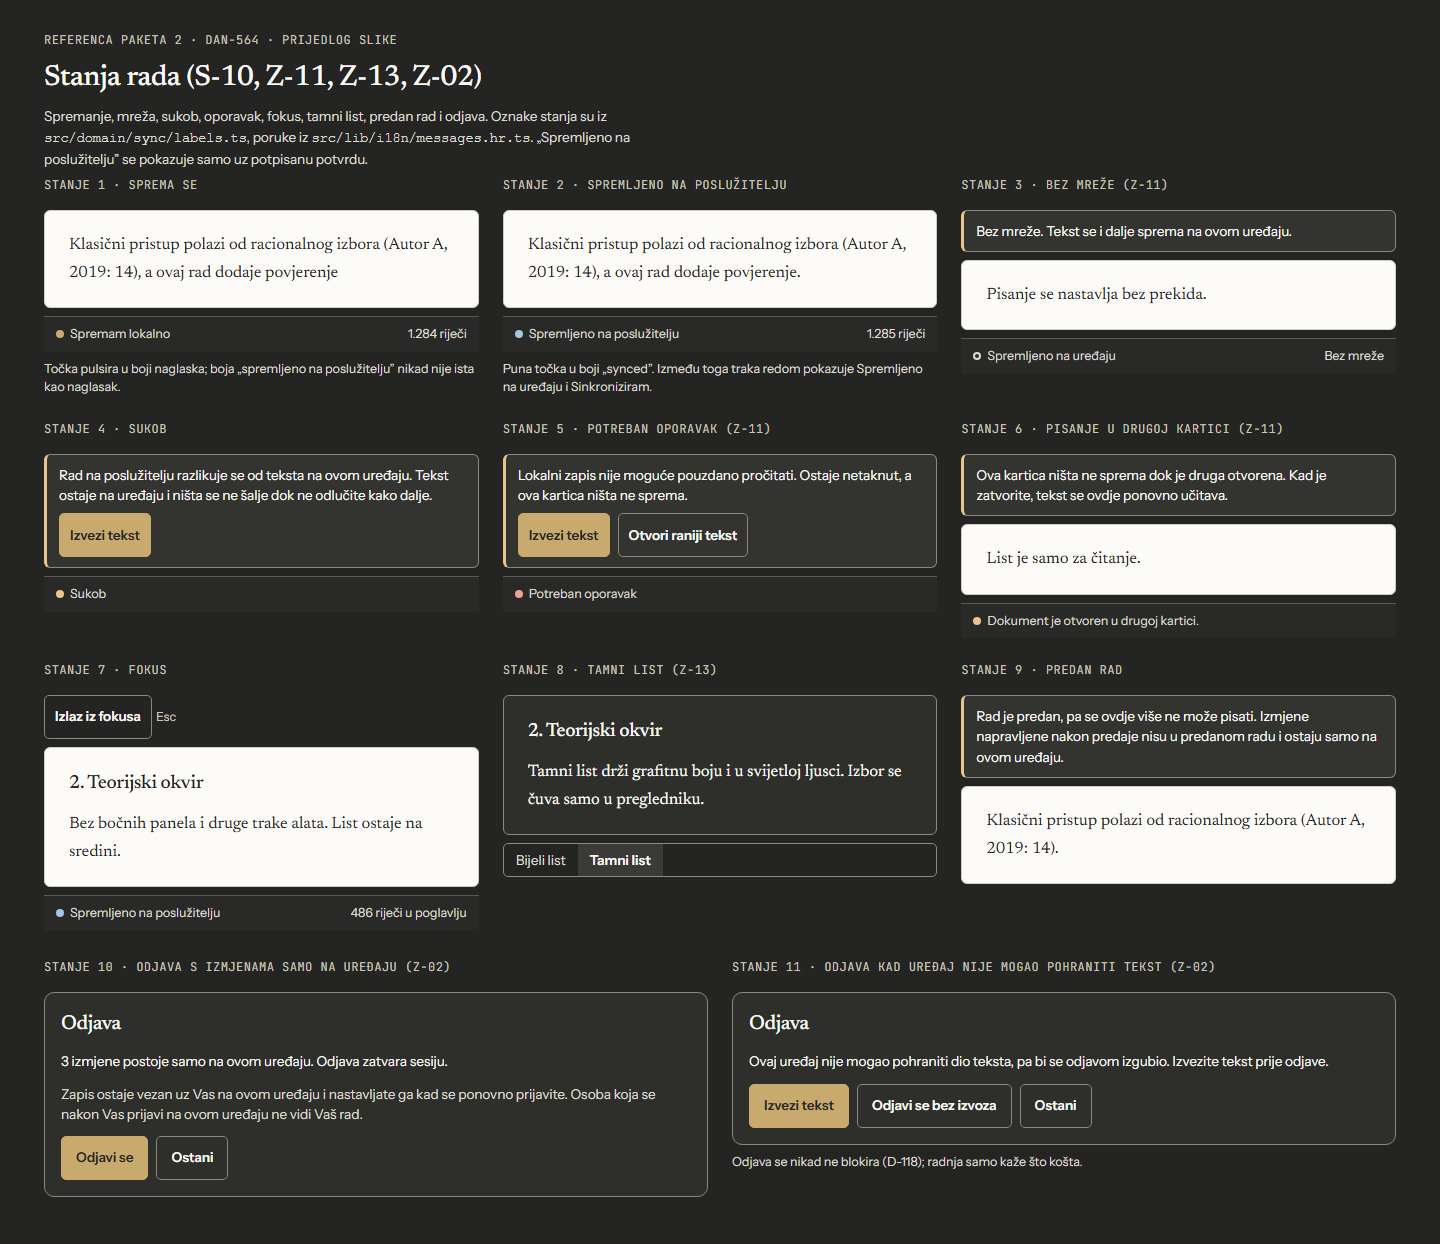
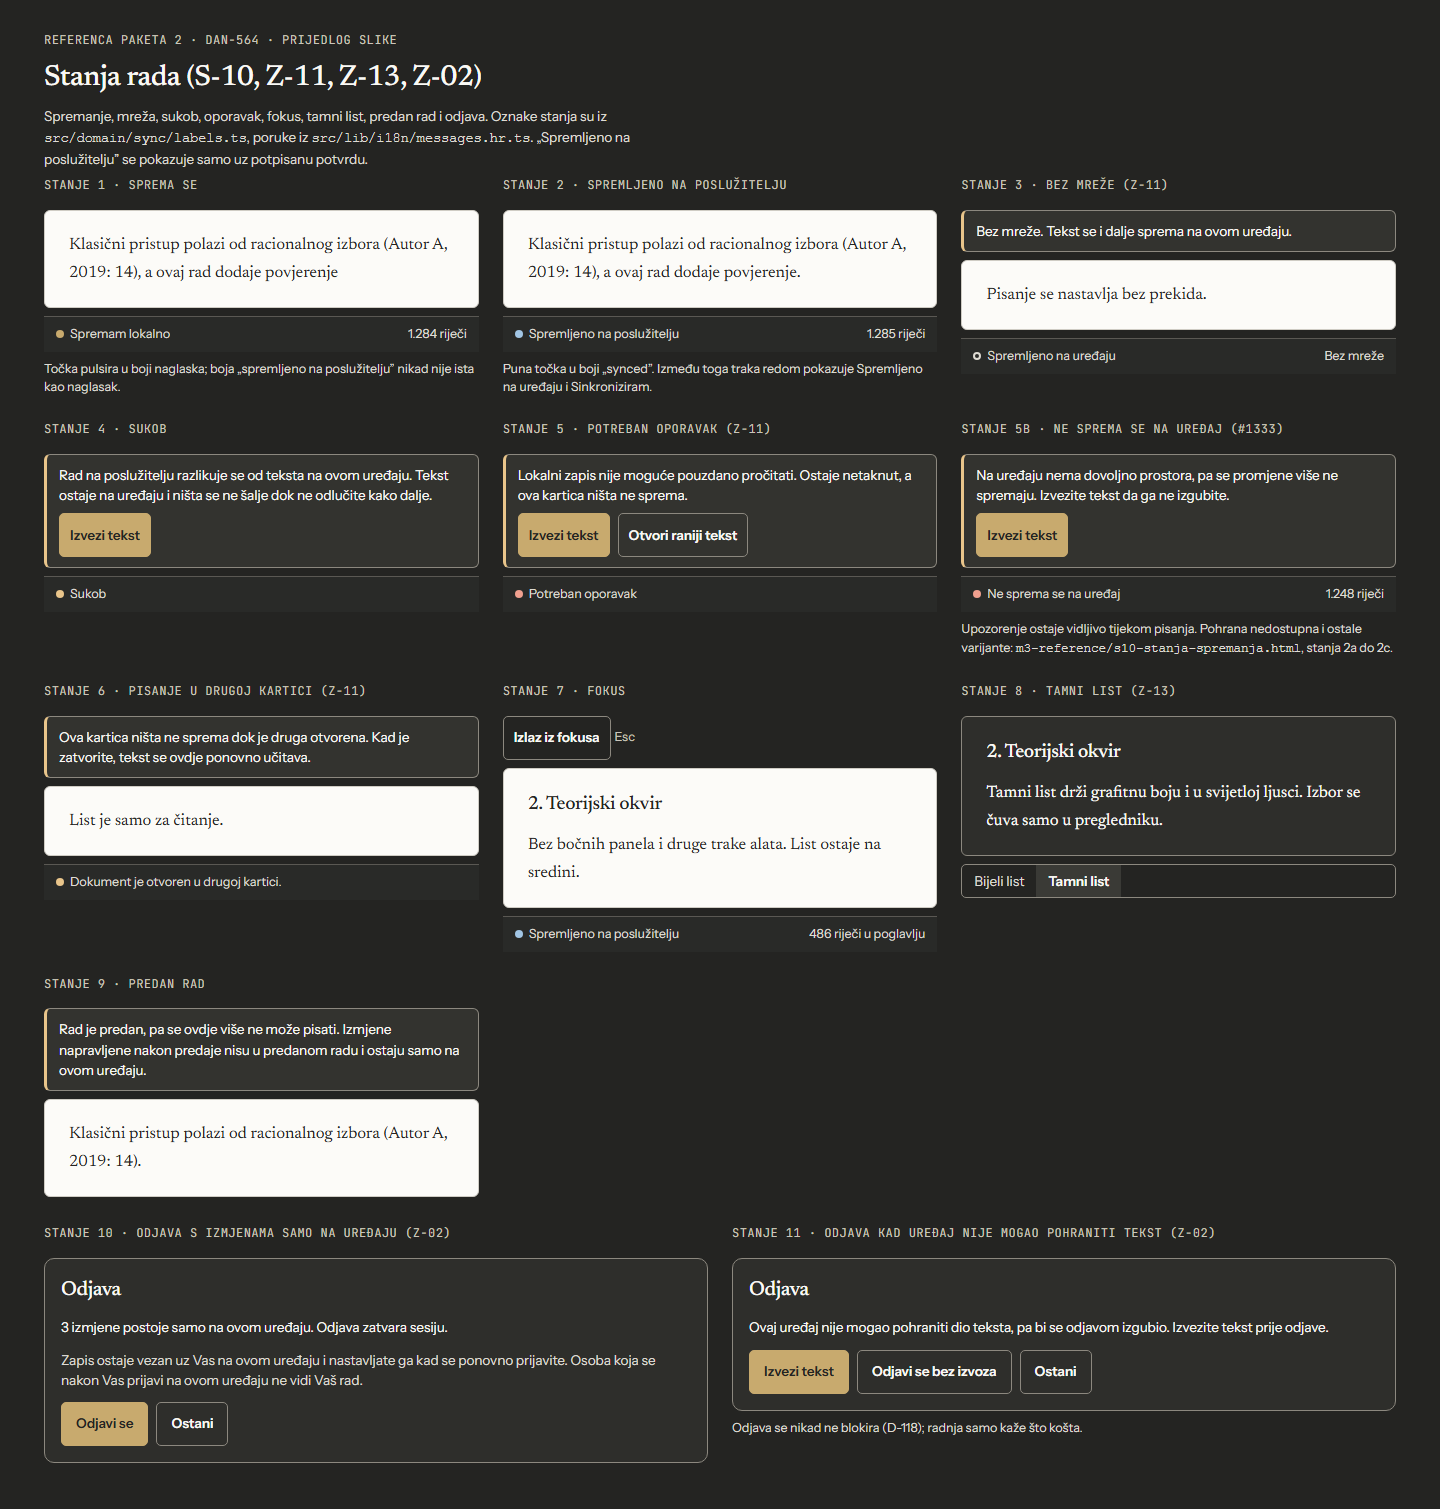
docs: add the not-saving-on-device state to the package 2 images (DAN-564)
State 5b shows the quota warning that stays visible while writing, the
"Ne sprema se na uređaj" chip and text export, and points to the M3
reference for the other variants.

Claude-Session: https://claude.ai/code/session_01N1HowT4JEmWPus261RPqtk

diff --git a/docs/design/ductura/m0-rad-reference/stanja.html b/docs/design/ductura/m0-rad-reference/stanja.html
@@ -34,6 +34,11 @@
       <div class="banner" role="alert"><span>Lokalni zapis nije moguće pouzdano pročitati. Ostaje netaknut, a ova kartica ništa ne sprema.</span>
         <div class="acts"><button class="btn small" type="button">Izvezi tekst</button><button class="btn small secondary" type="button">Otvori raniji tekst</button></div></div>
       <div class="statusbar" role="status"><span><span class="dot error" aria-hidden="true"></span>Potreban oporavak</span></div></section>
+    <section class="variant" aria-labelledby="s5b"><div class="ref-tag" id="s5b">Stanje 5b · ne sprema se na uređaj (#1333)</div>
+      <div class="banner" role="alert"><span>Na uređaju nema dovoljno prostora, pa se promjene više ne spremaju. Izvezite tekst da ga ne izgubite.</span>
+        <div class="acts"><button class="btn small" type="button">Izvezi tekst</button></div></div>
+      <div class="statusbar" role="status"><span><span class="dot error" aria-hidden="true"></span>Ne sprema se na uređaj</span><div class="end"><span>1.248 riječi</span></div></div>
+      <p class="ref-note">Upozorenje ostaje vidljivo tijekom pisanja. Pohrana nedostupna i ostale varijante: <code>m3-reference/s10-stanja-spremanja.html</code>, stanja 2a do 2c.</p></section>
     <section class="variant" aria-labelledby="s6"><div class="ref-tag" id="s6">Stanje 6 · pisanje u drugoj kartici (Z-11)</div>
       <div class="banner" role="status"><span>Ova kartica ništa ne sprema dok je druga otvorena. Kad je zatvorite, tekst se ovdje ponovno učitava.</span></div>
       <div class="sheet" data-sheet-theme="light" aria-readonly="true"><p>List je samo za čitanje.</p></div>

diff --git a/docs/design/ductura/m0-rad-reference/README.md b/docs/design/ductura/m0-rad-reference/README.md
@@ -12,7 +12,7 @@ Paket 2 iz plana dizajna: radni prostor studenta (Z-01) s editorom (S-10), tema 
 | Stranica | Sadržaj |
 |---|---|
 | `radni-prostor.html` | Z-01 i S-10 zadano: ljuska, naslovi u radu, dvije trake alata, bijeli list, bočni panel s karticama, traka stanja; otvoreni izbornici Umetni, Prikaz i Više; kartica Struktura |
-| `stanja.html` | sprema se, spremljeno na poslužitelju, bez mreže, sukob, potreban oporavak, druga kartica, fokus, tamni list, predan rad, dvije odjave |
+| `stanja.html` | sprema se, spremljeno na poslužitelju, bez mreže, sukob, potreban oporavak, ne sprema se na uređaj, druga kartica, fokus, tamni list, predan rad, dvije odjave |
 
 Snimke su u `snimke/<stranica>-<tamna|svijetla>-<1440|400>.png`: Playwright Chromium, cijela stranica, DPR 1, nakon `document.fonts.ready`, bez vodoravnog pomicanja na obje širine. Svijetla ljuska je `data-theme="light"` na `<html>`. Kontrolni zbrojevi su u `SHA256SUMS`.
 

diff --git a/docs/design/ductura/m0-rad-reference/KONTROLNA-LISTA.md b/docs/design/ductura/m0-rad-reference/KONTROLNA-LISTA.md
@@ -47,6 +47,7 @@ Vlasnik, 5. 11. 2026. (#87 c.6645361793): „editor mora imati sve funckije koje
 | Vodič | M5.12 | RP Više |
 | Obavijest o praćenju | PRODUCT §5 | RP Više |
 | Stanja spremanja: Spremam lokalno, Spremljeno na uređaju, Sinkroniziram, Spremljeno na poslužitelju, Sukob, Potreban oporavak | `src/domain/sync/labels.ts`, M3 | ST stanja 1 do 5; RP traka stanja |
+| Ne sprema se na uređaj: upozorenje tijekom pisanja i Izvezi tekst (nema prostora, pohrana nedostupna) | #1333, `messages.hr.ts` (`failureQuota`, `failureUnavailable`), `m3-reference/s10-stanja-spremanja.html` stanja 2a do 2c | ST stanje 5b |
 | Bez mreže | Z-11, `m3-reference` | ST stanje 3 |
 | Pisanje u drugoj kartici: „Dokument je otvoren u drugoj kartici.” | Z-11, `m3-reference`, `labels.ts` (`MULTI_TAB_BLOCKED_MESSAGE`) | ST stanje 6 |
 | Izvezi tekst, Otvori raniji tekst | #1333, #711 | ST stanja 4, 5 i 11 |
